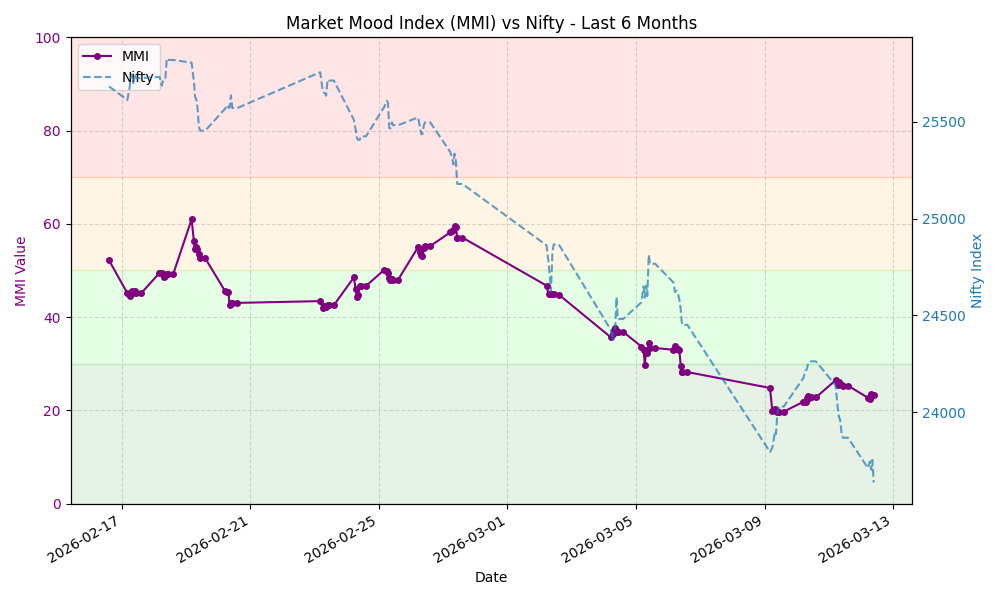
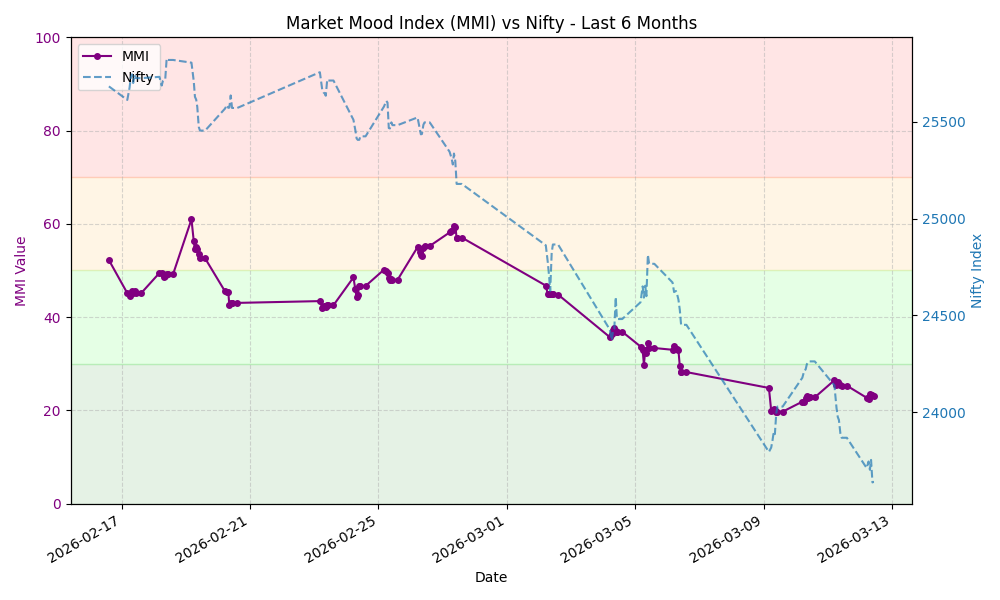
Update MMI data and chart

diff --git a/README.md b/README.md
@@ -7,8 +7,8 @@ This repository automatically fetches the MMI value, stores the history, and gen
 
 ## Latest MMI Value
 
-**23.32** - **Extreme Fear**
-<small>Last Updated: 2026-03-12 09:30 UTC</small>
+**23.00** - **Extreme Fear**
+<small>Last Updated: 2026-03-12 10:27 UTC</small>
 
 ## MMI Trend (Last 30 Days)
 
